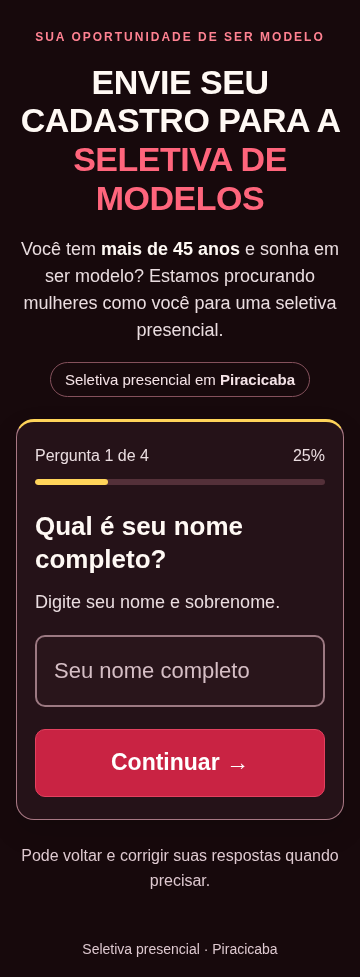
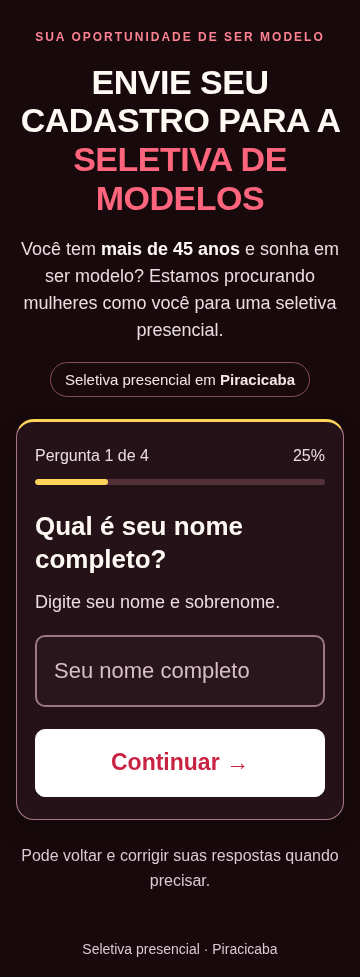
Prévia: botão branco com texto vermelho mais forte [skip netlify]

Changed region(s): [[0.0917, 0.7369, 0.9167, 0.8291]]

diff --git a/index.html b/index.html
@@ -1,7 +1,7 @@
 <!DOCTYPE html>
 <html lang="pt-BR"><head><meta charset="UTF-8"><meta name="viewport" content="width=device-width,initial-scale=1"><meta name="description" content="Seletiva presencial em Piracicaba para mulheres acima de 45 anos que sonham em ser modelos. Inscreva-se respondendo a 4 perguntas simples."><title>Seletiva de modelos em Piracicaba | Mulheres acima de 45 anos</title>
 <style>
-*{box-sizing:border-box}body{margin:0;background:#17090c;color:#fff9f4;font-family:Arial,sans-serif;font-size:20px;line-height:1.55}p{margin:12px 0}.hero{padding:36px 20px 22px;text-align:center}.hero-inner{max-width:780px;margin:auto}.hero-kicker{margin:0 0 16px;color:#ff8292;font-size:12px;font-weight:700;letter-spacing:2px}.hero h1{margin:0 auto 18px;max-width:720px;font-family:Impact,'Arial Narrow',Arial,sans-serif;font-size:44px;line-height:1.14;letter-spacing:-.5px;text-transform:uppercase;overflow-wrap:break-word}.hero h1 span{color:#ff657c}.hero-copy{max-width:580px;margin:0 auto;color:#eadde0;font-size:19px;line-height:1.5}.hero-copy strong{color:#fff9f4}.hero-location{display:inline-block;margin:18px 0 0;padding:5px 14px;border:1px solid #85515c;border-radius:24px;color:#f5e3e7;font-size:15px}main{max-width:580px;margin:0 auto 30px;padding:0 24px}.form-intro{text-align:center;color:#eadde0;font-size:18px;margin:0 0 24px}.card{background:#251218;padding:28px;border:1px solid #a87884;border-top:3px solid #ffd45a;border-radius:18px;box-shadow:0 12px 28px #00000020}.progress-text{display:flex;justify-content:space-between;font-size:16px;color:#eadde0}.track{height:6px;background:#543039;border-radius:8px;margin:10px 0 25px;overflow:hidden}.fill{height:100%;background:#ffd45a;border-radius:8px;animation:progress-in 180ms ease-out both}h2{font-size:28px;line-height:1.3;margin:0 0 10px}.hint{font-size:18px;color:#eadde0;margin-bottom:18px}input{width:100%;min-width:0;font:inherit;font-size:22px;padding:17px;border:2px solid #9c7982;border-radius:10px;color:#fff9f4;background:#29151b;min-height:64px}input::placeholder{color:#d5bec5;opacity:1}input:focus,button:focus-visible{outline:3px solid #ffd45a;outline-offset:4px}input[aria-invalid=true]{border-color:#ff9ca9}button{font:inherit;font-weight:bold;cursor:pointer;border-radius:10px;min-height:62px;padding:15px 20px;touch-action:manipulation;white-space:normal;overflow-wrap:break-word}button:disabled{cursor:wait;opacity:.7}.primary{background:#c92343;color:#fff;border:1px solid #e3415f;flex:1 1 100%;width:100%;order:-1;font-size:23px;font-weight:700;min-height:66px;letter-spacing:0;box-shadow:none}.primary:hover{background:#b71e3c}.choice-yes:hover{background:#ffcb36}.back{background:transparent;border:1px solid #9c7982;color:#f5e3e7;font-size:18px;padding:14px}.actions{display:flex;flex-wrap:wrap;justify-content:center;gap:12px;margin-top:22px}.actions .back{min-height:48px;padding:8px 18px}.choice{display:block;width:100%;border:2px solid #9c7982;border-radius:12px;padding:19px 14px;margin:16px 0;cursor:pointer;font-size:20px;line-height:1.35;background:#29151b;color:#fff9f4}.choice-yes{background:#ffd45a;color:#302b20;border-color:#ffd45a;min-height:82px;font-size:24px;box-shadow:0 0 0 4px #ffd45a18,0 0 20px #ffd45a25}.primary,.choice{transition:transform 100ms ease,background-color 100ms ease}.primary:active,.choice:active{transform:scale(.985)}form{animation:question-in 180ms ease-out both}@keyframes question-in{from{opacity:0;transform:translateY(7px)}to{opacity:1;transform:translateY(0)}}@keyframes progress-in{from{width:var(--previous-progress)}}@media(prefers-reduced-motion:reduce){form,.fill,.primary{animation:none}.primary,.choice{transition:none}.primary:active,.choice:active{transform:none}}.error{color:#ffe5e9;background:#521f2b;border:1px solid #ff9ca9;padding:12px;border-radius:8px;font-size:18px;margin-top:16px}.error:empty{display:none}.privacy{font-size:16px;color:#dec9d0;margin-top:22px}.reassure{font-size:16px;text-align:center;color:#dec9d0;margin-top:24px}.success-icon{width:64px;height:64px;border-radius:50%;background:#ffd45a;color:#302b20;display:grid;place-items:center;font-size:34px;margin-bottom:20px}footer{text-align:center;color:#dec9d0;font-size:14px;padding:16px 20px}@media(max-width:600px){.hero{padding:28px 20px 22px}.hero h1{font-size:34px;max-width:440px}.hero-copy{font-size:18px}main{padding:0 16px}.card{padding:22px 18px}h2{font-size:26px}}@media(max-width:350px){.hero{padding-left:16px;padding-right:16px}.hero h1{font-size:30px}main{padding:0 12px}.card{padding:20px 14px}.choice-yes{font-size:22px}.back{padding:12px 10px}.primary{padding:14px 12px}}
+*{box-sizing:border-box}body{margin:0;background:#17090c;color:#fff9f4;font-family:Arial,sans-serif;font-size:20px;line-height:1.55}p{margin:12px 0}.hero{padding:36px 20px 22px;text-align:center}.hero-inner{max-width:780px;margin:auto}.hero-kicker{margin:0 0 16px;color:#ff8292;font-size:12px;font-weight:700;letter-spacing:2px}.hero h1{margin:0 auto 18px;max-width:720px;font-family:Impact,'Arial Narrow',Arial,sans-serif;font-size:44px;line-height:1.14;letter-spacing:-.5px;text-transform:uppercase;overflow-wrap:break-word}.hero h1 span{color:#ff657c}.hero-copy{max-width:580px;margin:0 auto;color:#eadde0;font-size:19px;line-height:1.5}.hero-copy strong{color:#fff9f4}.hero-location{display:inline-block;margin:18px 0 0;padding:5px 14px;border:1px solid #85515c;border-radius:24px;color:#f5e3e7;font-size:15px}main{max-width:580px;margin:0 auto 30px;padding:0 24px}.form-intro{text-align:center;color:#eadde0;font-size:18px;margin:0 0 24px}.card{background:#251218;padding:28px;border:1px solid #a87884;border-top:3px solid #ffd45a;border-radius:18px;box-shadow:0 12px 28px #00000020}.progress-text{display:flex;justify-content:space-between;font-size:16px;color:#eadde0}.track{height:6px;background:#543039;border-radius:8px;margin:10px 0 25px;overflow:hidden}.fill{height:100%;background:#ffd45a;border-radius:8px;animation:progress-in 180ms ease-out both}h2{font-size:28px;line-height:1.3;margin:0 0 10px}.hint{font-size:18px;color:#eadde0;margin-bottom:18px}input{width:100%;min-width:0;font:inherit;font-size:22px;padding:17px;border:2px solid #9c7982;border-radius:10px;color:#fff9f4;background:#29151b;min-height:64px}input::placeholder{color:#d5bec5;opacity:1}input:focus,button:focus-visible{outline:3px solid #ffd45a;outline-offset:4px}input[aria-invalid=true]{border-color:#ff9ca9}button{font:inherit;font-weight:bold;cursor:pointer;border-radius:10px;min-height:62px;padding:15px 20px;touch-action:manipulation;white-space:normal;overflow-wrap:break-word}button:disabled{cursor:wait;opacity:.7}.primary{background:#fff;color:#c92343;border:1px solid #fff;flex:1 1 100%;width:100%;order:-1;font-size:23px;font-weight:900;min-height:66px;letter-spacing:0;box-shadow:none}.primary:hover{background:#fff3f5}.choice-yes:hover{background:#ffcb36}.back{background:transparent;border:1px solid #9c7982;color:#f5e3e7;font-size:18px;padding:14px}.actions{display:flex;flex-wrap:wrap;justify-content:center;gap:12px;margin-top:22px}.actions .back{min-height:48px;padding:8px 18px}.choice{display:block;width:100%;border:2px solid #9c7982;border-radius:12px;padding:19px 14px;margin:16px 0;cursor:pointer;font-size:20px;line-height:1.35;background:#29151b;color:#fff9f4}.choice-yes{background:#ffd45a;color:#302b20;border-color:#ffd45a;min-height:82px;font-size:24px;box-shadow:0 0 0 4px #ffd45a18,0 0 20px #ffd45a25}.primary,.choice{transition:transform 100ms ease,background-color 100ms ease}.primary:active,.choice:active{transform:scale(.985)}form{animation:question-in 180ms ease-out both}@keyframes question-in{from{opacity:0;transform:translateY(7px)}to{opacity:1;transform:translateY(0)}}@keyframes progress-in{from{width:var(--previous-progress)}}@media(prefers-reduced-motion:reduce){form,.fill,.primary{animation:none}.primary,.choice{transition:none}.primary:active,.choice:active{transform:none}}.error{color:#ffe5e9;background:#521f2b;border:1px solid #ff9ca9;padding:12px;border-radius:8px;font-size:18px;margin-top:16px}.error:empty{display:none}.privacy{font-size:16px;color:#dec9d0;margin-top:22px}.reassure{font-size:16px;text-align:center;color:#dec9d0;margin-top:24px}.success-icon{width:64px;height:64px;border-radius:50%;background:#ffd45a;color:#302b20;display:grid;place-items:center;font-size:34px;margin-bottom:20px}footer{text-align:center;color:#dec9d0;font-size:14px;padding:16px 20px}@media(max-width:600px){.hero{padding:28px 20px 22px}.hero h1{font-size:34px;max-width:440px}.hero-copy{font-size:18px}main{padding:0 16px}.card{padding:22px 18px}h2{font-size:26px}}@media(max-width:350px){.hero{padding-left:16px;padding-right:16px}.hero h1{font-size:30px}main{padding:0 12px}.card{padding:20px 14px}.choice-yes{font-size:22px}.back{padding:12px 10px}.primary{padding:14px 12px}}
 </style></head><body>
 <header class="hero"><div class="hero-inner"><p class="hero-kicker">SUA OPORTUNIDADE DE SER MODELO</p><h1>Envie seu cadastro para a <span>seletiva de modelos</span></h1><p class="hero-copy">Você tem <strong>mais de 45 anos</strong> e sonha em ser modelo? Estamos procurando mulheres como você para uma seletiva presencial.</p><p class="hero-location">Seletiva presencial em <strong>Piracicaba</strong></p></div></header>
 <main><section class="card" aria-label="Formulário de inscrição"><div id="content"></div></section><p class="reassure">Pode voltar e corrigir suas respostas quando precisar.</p></main><footer>Seletiva presencial · Piracicaba</footer>
